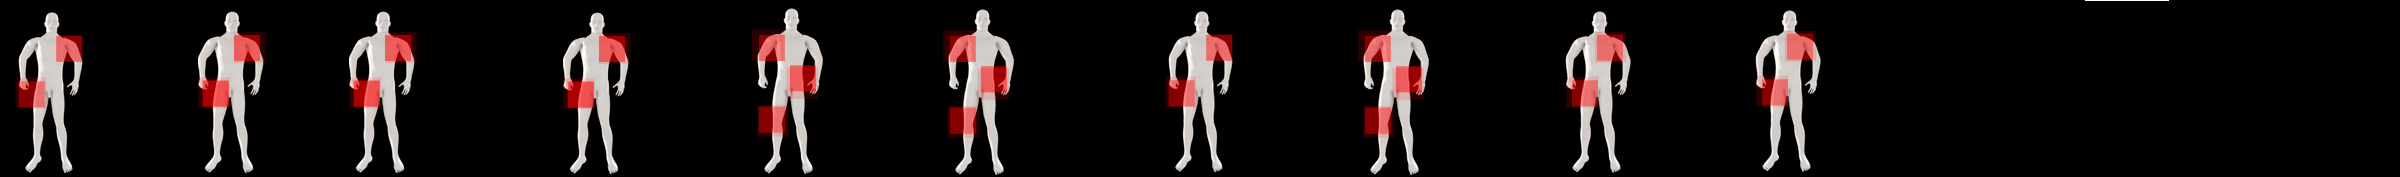
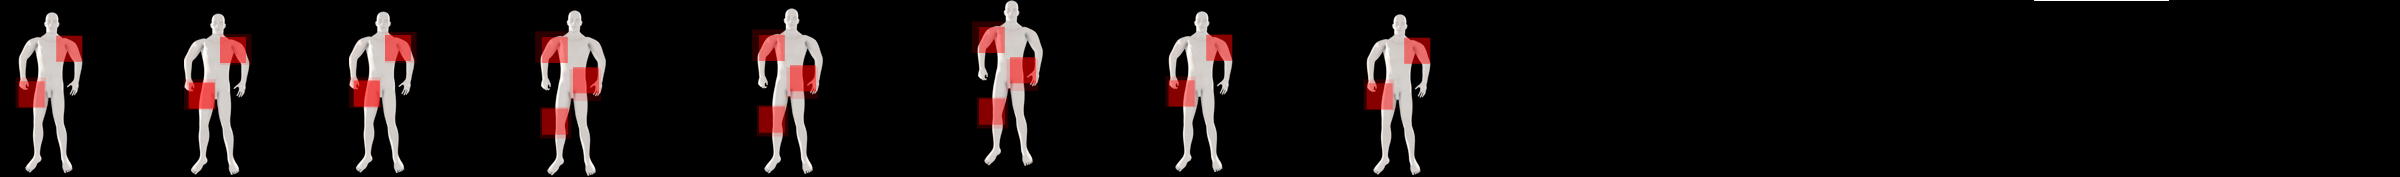
Implementación 1 solo modulo wifi
- Corrige problemas de orientación para calculo tiempos de exposición.

diff --git a/sensorFlexibleSQLiteDB/plotSensores.py b/sensorFlexibleSQLiteDB/plotSensores.py
@@ -10,20 +10,14 @@
 from PIL import Image, ImageDraw
 import matplotlib
 matplotlib.use('TKAgg')
-import socket
-import sys
 import binascii
-import threading
 import numpy as np
 import matplotlib.pyplot as plt
 from multiprocessing import Process
 import threading
 import scipy.ndimage
 import sys, struct
-#import tiemposDeExposicion
-#import interfazTiemposExposicionSensor1
 from pylab import *
-#import pusher
 import time
 import os
 import sqlite3
@@ -45,15 +39,10 @@ class Ui_MainWindow(object):
     def __init__(self):
 
         #Socket connection
-        self.ip = "192.168.0.124"
-        self.port = 10005
-        self.columnas = 43;
-        self.filas = 43;
-        
-        matriz = [[0 for x in range(self.columnas)] for x in range(self.filas)] 
-        #matriz[0][0] = 255
-        matrizSensor2 = [[0 for x in range(self.columnas)] for x in range(self.filas)] 
-        matrizCompleta = np.concatenate((matriz,matrizSensor2),axis=1)
+        self.columnas = 94;
+        self.filas = 44;
+         
+        matrizCompleta = [[0 for x in range(self.columnas)] for x in range(self.filas)] 
 
         matrizCompleta[0][0] = 255
 
@@ -72,54 +61,36 @@ class Ui_MainWindow(object):
         self.vectorImagen = []
         self.vectorDatosDistribucionPresion = []
         self.vectorDesencriptado = []
-        #self.vectorImagen = [255,0,45,2,0,184,3,0,107,3,0,117,2,0,112,5,0,18,7,0,7,6,0,1,12,14,2,0,3,4,0,1,2,0,9,2,0,7,9,9,47,45,26,7,0,24,10,11,15,3,0,25,7,7,14,0,62,14,0,19,3,7,6,0,7,5,0,17,10,47,54,32,0,24,5,11,49,51,0,26,5,2,0,40,255]
-        #self.cronometro = tiemposDeExposicion.Cronometro()
-        #self.interfazTiempos = interfazTiemposExposicionSensor1.interfazTiemposExposicion()
+
         self.iniciaTramaDeDatos = False
 
         plt.set_cmap('jet')
 
         self.sqlDataBase()
-        self.contadorImagenes = 0
 
         # Sensor 1: cabeza
         self.UDP_IP_Sensor1 = "192.168.0.124"
         self.UDP_PORT_Sensor1 = 10000
 
-        self.UDP_IP_CLIENT_Sensor1 = "192.168.0.100"
+        self.UDP_IP_CLIENT_Sensor1 = "192.168.0.101"
         self.UDP_PORT_CLIENT_Sensor1 = 2233
 
         self.idSensor_Sensor1 = "1"
-
-
-        # Sensor 2: piernas
-        self.UDP_IP_Sensor2 = "192.168.0.124"
-        self.UDP_PORT_Sensor2 = 10001
-
-        self.UDP_IP_CLIENT_Sensor2 = "192.168.0.101"
-        self.UDP_PORT_CLIENT_Sensor2 = 2233
-
-        self.idSensor_Sensor2 = "2"
         
         # Comunicacion sensor 1
         self.t = threading.Thread(target = recvSensor1.Ui_MainWindow, args=(self.UDP_IP_Sensor1, self.UDP_PORT_Sensor1, self.UDP_IP_CLIENT_Sensor1, self.UDP_PORT_CLIENT_Sensor1, self.idSensor_Sensor1,))
         self.t.IsBackground = True;
         self.t.start()
 
-        # Comunicacion sensor 2
-        self.s = threading.Thread(target = recvSensor1.Ui_MainWindow, args=(self.UDP_IP_Sensor2, self.UDP_PORT_Sensor2, self.UDP_IP_CLIENT_Sensor2, self.UDP_PORT_CLIENT_Sensor2, self.idSensor_Sensor2,))
-        self.s.IsBackground = True;
-        self.s.start()
-
-        # Interfaz tiempos de exposicion 1
+        # Interfaz tiempos de exposicion zona superior
         self.u = threading.Thread(target = interfazTiemposExposicionSensor1.interfazTiemposExposicion, args=("1",))
         self.u.IsBackground = True;
         self.u.start()
 
-        # Interfaz tiempos de exposicion 2
-        self.v = threading.Thread(target = interfazTiemposExposicionSensor1.interfazTiemposExposicion, args=("2",))
-        self.v.IsBackground = True;
-        self.v.start()
+        # Interfaz tiempos de exposicion zona inferior
+        self.u = threading.Thread(target = interfazTiemposExposicionSensor1.interfazTiemposExposicion, args=("2",))
+        self.u.IsBackground = True;
+        self.u.start()
 
         # Calculo de promedios de presion por zonas
         self.w = threading.Thread(target = graphicsRealTimeAverageSensor_1.Ui_MainWindow)
@@ -143,53 +114,56 @@ class Ui_MainWindow(object):
 
         
     def dibujarDistribucionPresionSensor1(self):
-        try:
-            maximoValor = 0
-            for row in self.c.execute("SELECT * FROM sensorFlexible WHERE `id`='1'"):
-                dataSensor1 = row[1]
-            for row in self.c.execute("SELECT * FROM sensorFlexible WHERE `id`='2'"):
-                dataSensor2 = row[1]
+        #try:
+        maximoValor = 0
+        for row in self.c.execute("SELECT * FROM sensorFlexible WHERE `id`='1'"):
+            dataSensor1 = row[1]
+        for row in self.c.execute("SELECT * FROM sensorFlexible WHERE `id`='2'"):
+            dataSensor2 = row[1]
+        
+        #Parte superior
+        matrizSensor1 = ast.literal_eval(str(dataSensor1))
+
+        #Parte inferior
+        matrizSensor2 = ast.literal_eval(str(dataSensor2))
+
+        matrizSensor1 = scipy.ndimage.rotate(matrizSensor1, 90)
+
+        matrizSensor2 = scipy.ndimage.rotate(matrizSensor2, 90)
+
+
+        hora = time.strftime("%H:%M:%S")
+
+        #self.c1.execute("INSERT INTO sensorFlexibleTransmision VALUES ('%s',  '%s', '%s', '%s')" % (self.contadorImagenes, matrizSensor1, matrizSensor2 ,hora))
+
+        #matrizSensor1 = scipy.ndimage.rotate(dataSensor1, 90)
+
+        matrizCompleta = np.concatenate((matrizSensor1,matrizSensor2), axis=1)
+        #matrizCompleta = matrizSensor1
+        
+        #self.conn1.commit()
+        #matrizCompleta = matrizDistribucion
+        #Primera interpolacion vecino mas cercano
+        for k in range(2):
+            for i in range(self.filas):
+                for j in range(84):
+                    if i > 0 and i < 42 and j > 0 and j < 84:     
+                        matrizCompleta[i][j] = (matrizCompleta[i+1][j] + matrizCompleta[i-1][j] + matrizCompleta[i][j-1] + matrizCompleta[i][j+1] + matrizCompleta[i+1][j+1] + matrizCompleta[i-1][j+1] + matrizCompleta[i-1][j-1] + matrizCompleta[i+1][j-1])/8
+                        if matrizCompleta[i][j] > 240:
+                            matrizCompleta[i][j] = 240
+
+        data = scipy.ndimage.zoom(matrizCompleta, 3)
+      
+        plt.set_cmap('jet')
+
+        self.imagenSensor1.set_data(data)
+
+        self.figSensor1.canvas.draw()
+        quality_val = 20
+        self.figSensor1.savefig('sensor1.jpeg')
             
-            #Sensor 1
-            matrizSensor1 = ast.literal_eval(str(dataSensor1))
-            #matrizSensor1 = scipy.ndimage.rotate(matrizSensor1, 0)
-
-            #Sensor 1
-            matrizSensor2 = ast.literal_eval(str(dataSensor2))
-
-            self.contadorImagenes = self.contadorImagenes + 1
-            hora = time.strftime("%H:%M:%S")
-
-            #self.c1.execute("INSERT INTO sensorFlexibleTransmision VALUES ('%s',  '%s', '%s', '%s')" % (self.contadorImagenes, matrizSensor1, matrizSensor2 ,hora))
-
-            matrizSensor2 = scipy.ndimage.rotate(matrizSensor2, -90)
-
-            matrizCompleta = np.concatenate((matrizSensor1,matrizSensor2), axis=1)
-            #matrizCompleta = matrizSensor1
-            
-            #self.conn1.commit()
-            #matrizCompleta = matrizDistribucion
-            #Primera interpolacion vecino mas cercano
-            for k in range(2):
-                for i in range(self.filas):
-                    for j in range(84):
-                        if i > 0 and i < 42 and j > 0 and j < 84:     
-                            matrizCompleta[i][j] = (matrizCompleta[i+1][j] + matrizCompleta[i-1][j] + matrizCompleta[i][j-1] + matrizCompleta[i][j+1] + matrizCompleta[i+1][j+1] + matrizCompleta[i-1][j+1] + matrizCompleta[i-1][j-1] + matrizCompleta[i+1][j-1])/8
-                            if matrizCompleta[i][j] > 240:
-                                matrizCompleta[i][j] = 240
-
-            data = scipy.ndimage.zoom(matrizCompleta, 3)
-          
-            plt.set_cmap('jet')
-
-            self.imagenSensor1.set_data(data)
-
-            self.figSensor1.canvas.draw()
-            quality_val = 20
-            self.figSensor1.savefig('sensor1.jpeg')
-            
-        except:
-            pass
+        #except:
+            #pass
 
 if __name__ == "__main__":
 

diff --git a/sensorFlexibleSQLiteDB/interfazTiemposExposicionSensor1.py b/sensorFlexibleSQLiteDB/interfazTiemposExposicionSensor1.py
@@ -26,7 +26,6 @@ class interfazTiemposExposicion:
         self.tiempo = [['00:00:00','00:00:00','00:00:00'],['00:00:00','00:00:00','00:00:00'],['00:00:00','00:00:00','00:00:00']]
         self.zona = 0
 
-
         self.cronometro = tiemposDeExposicion.Cronometro()
         
 
@@ -80,12 +79,10 @@ class interfazTiemposExposicion:
                 for row in self.c.execute("SELECT * FROM sensorFlexible WHERE `id`='%s'" % self.idSensor):
                     dataSensor1 = row[1]
 
-
                 #Sensor 1
                 matrizSensor1 = ast.literal_eval(str(dataSensor1))
 
-                if self.idSensor == 2:
-                    matrizSensor1 = scipy.ndimage.rotate(matrizSensor1, -90)
+                #matrizSensor1 = scipy.ndimage.rotate(matrizSensor1, 90)
 
                 matrizDistribucionPresion = matrizSensor1
 
@@ -111,12 +108,6 @@ class interfazTiemposExposicion:
 
     def matrixTransformations(self, matrix):
         transformationMatrix = np.array([['00:00:00','00:00:00','00:00:00'],['00:00:00','00:00:00','00:00:00'],['00:00:00','00:00:00','00:00:00']])
-        for i in range(3):
-            for j in range(3):
-                if i == j:
-                    transformationMatrix[i][j] = matrix[i][j]
-                else:
-                    transformationMatrix[j][i] = matrix[i][j]
            
         return transformationMatrix     
         
@@ -136,10 +127,10 @@ class interfazTiemposExposicion:
             
             if percentagePressureZone1 > porcentajeSuperadoAlarma:
 
-                self.zonasActivas[0][0] = True
+                self.zonasActivas[2][0] = True
                 
             else:
-                self.zonasActivas[0][0] = False
+                self.zonasActivas[2][0] = False
 
         ############# Zone 2 ##############
         elif self.zona == 2:
@@ -150,10 +141,10 @@ class interfazTiemposExposicion:
                     pressureSumatoriaZone2 = pressureSumatoriaZone2 +  matrizDistribucion[i][j]
             percentagePressureZone2 = (pressureSumatoriaZone2*1000)/maximaSumatoria
             if percentagePressureZone2 > porcentajeSuperadoAlarma:
-                self.zonasActivas[0][1] = True
+                self.zonasActivas[2][1] = True
 
             else:
-                self.zonasActivas[0][1] = False
+                self.zonasActivas[2][1] = False
 
         
         #########  Zone 3 ###############
@@ -164,9 +155,9 @@ class interfazTiemposExposicion:
                     pressureSumatoriaZone3 = pressureSumatoriaZone3 +  matrizDistribucion[i][j]
             percentagePressureZone3 = (pressureSumatoriaZone3*1000)/maximaSumatoria
             if percentagePressureZone3 > porcentajeSuperadoAlarma:
-                self.zonasActivas[0][2] = True
+                self.zonasActivas[2][2] = True
             else:
-                self.zonasActivas[0][2] = False
+                self.zonasActivas[2][2] = False
                        
         #########  Zone 4 ##############
         elif self.zona == 4:
@@ -214,9 +205,9 @@ class interfazTiemposExposicion:
                     pressureSumatoriaZone7 = pressureSumatoriaZone7 +  matrizDistribucion[i][j]
             percentagePressureZone7 = (pressureSumatoriaZone7*1000)/maximaSumatoria
             if percentagePressureZone7 > porcentajeSuperadoAlarma:
-                self.zonasActivas[2][0] = True
+                self.zonasActivas[0][0] = True
             else:
-                self.zonasActivas[2][0] = False
+                self.zonasActivas[0][0] = False
           
         ######## Zone 8 #############
         elif self.zona == 8:
@@ -227,9 +218,9 @@ class interfazTiemposExposicion:
             percentagePressureZone8 = (pressureSumatoriaZone8*1000)/maximaSumatoria
 
             if percentagePressureZone8 > porcentajeSuperadoAlarma:
-                self.zonasActivas[2][1] = True
+                self.zonasActivas[0][1] = True
             else:
-                self.zonasActivas[2][1] = False
+                self.zonasActivas[0][1] = False
  
         ######### Zone 9 ############
         elif self.zona == 9:
@@ -239,9 +230,9 @@ class interfazTiemposExposicion:
                     pressureSumatoriaZone9 = pressureSumatoriaZone9 +  matrizDistribucion[i][j]
             percentagePressureZone9 = (pressureSumatoriaZone9*1000)/maximaSumatoria
             if percentagePressureZone9 > porcentajeSuperadoAlarma:
-                self.zonasActivas[2][2] = True
+                self.zonasActivas[0][2] = True
             else:
-                self.zonasActivas[2][2] = False
+                self.zonasActivas[0][2] = False
             self.zona = 0
             
         return self.zonasActivas

diff --git a/sensorFlexibleSQLiteDB/recvSensor1.py b/sensorFlexibleSQLiteDB/recvSensor1.py
@@ -24,8 +24,8 @@ class Ui_MainWindow(object):
         self.vectorDatosDistribucionPresion = []
         self.vectorDesencriptado = []
         self.iniciaTramaDeDatos = False
-        self.columnas = 43;
-        self.filas = 43;
+        self.columnas = 44;
+        self.filas = 94;
         matriz = [[0 for x in range(self.columnas)] for x in range(self.filas)] 
         matriz[0][0] = 255
         self.angle = 0
@@ -50,7 +50,7 @@ class Ui_MainWindow(object):
         #self.s.listen(1)
         self.campoSensor1Creado = False
 
-        self.s.settimeout(1)
+        self.s.settimeout(2)
         while True:            
             time.sleep(2)
             self.s.sendto(bytes('*','utf-8'), (self.UDP_IP_CLIENT, self.UDP_PORT_CLIENT))
@@ -84,7 +84,8 @@ class Ui_MainWindow(object):
 
             if self.campoSensor1Creado == False:
                 self.campoSensor1Creado = True
-                self.c.execute("INSERT INTO sensorFlexible VALUES ('%s','initValue sensor 1','True','0','initValue times 1')" % self.idSensor)
+                self.c.execute("INSERT INTO sensorFlexible VALUES ('%s','initValue sensor 1','True','0','initValue times 1')" % "1")
+                self.c.execute("INSERT INTO sensorFlexible VALUES ('%s','initValue sensor 2','True','0','initValue times 1')" % "2")
             self.conn.commit()
 
         except:
@@ -192,20 +193,28 @@ class Ui_MainWindow(object):
         
     def dibujarDistribucionPresion(self, matrizDistribucion, angle):
       
-      maximoValor = 0
+        maximoValor = 0
 
-      hora = time.strftime("%H:%M:%S")
+        hora = time.strftime("%H:%M:%S")
 
-      for i in range(self.filas):
-        for j in range(self.columnas):
-            matrizDistribucion[i][j] = matrizDistribucion[i][j]*25
+        for i in range(self.filas):
+            for j in range(self.columnas):
+                matrizDistribucion[i][j] = matrizDistribucion[i][j]*25
 
-            if matrizDistribucion[i][j] > 200:
-                matrizDistribucion[i][j] = 240
+                if matrizDistribucion[i][j] > 200:
+                    matrizDistribucion[i][j] = 240
 
-      self.c.execute("UPDATE `sensorFlexible` SET `data`= '%s', `angle`= '%s' WHERE `id`='%s'" % (matrizDistribucion, angle, self.idSensor))
-      self.conn.commit()
+        matrizDistribucion = np.array(matrizDistribucion)
 
+
+        matrizSuperior = matrizDistribucion[0:47,:]
+        matrizInferior = matrizDistribucion[47:94,:]
+
+        
+        self.c.execute("UPDATE `sensorFlexible` SET `data`= '%s', `angle`= '%s' WHERE `id`='%s'" % (matrizSuperior.tolist(), angle, "1"))
+        self.conn.commit()
+        self.c.execute("UPDATE `sensorFlexible` SET `data`= '%s', `angle`= '%s' WHERE `id`='%s'" % (matrizInferior.tolist(), angle, "2"))
+        self.conn.commit()
 
     def conectarSensor(self):
         #try:
